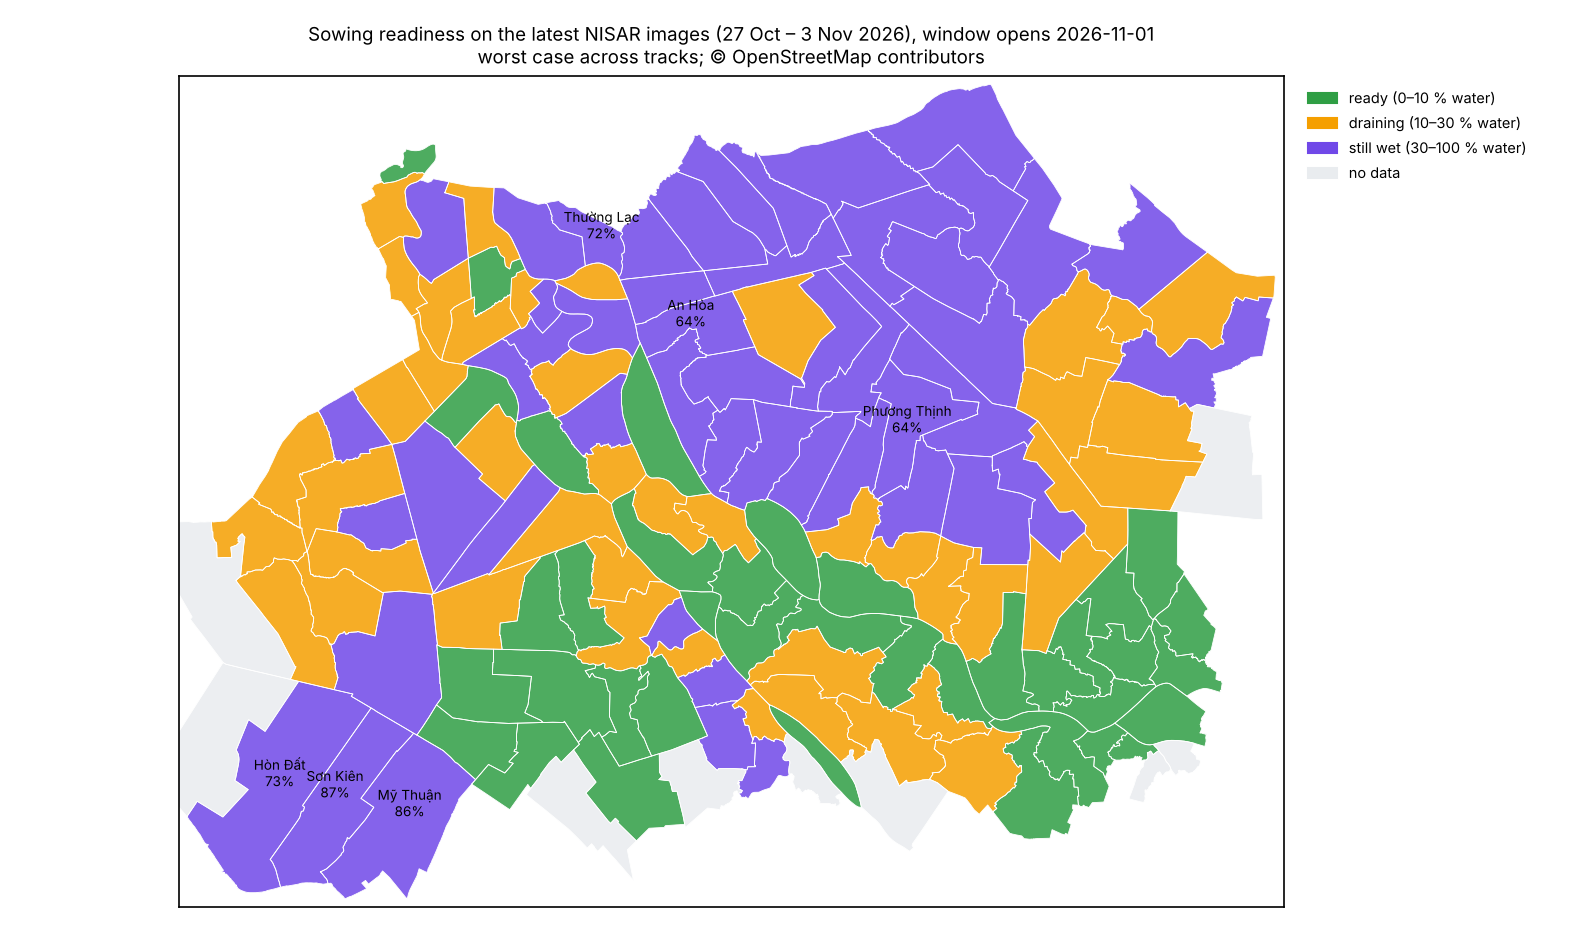
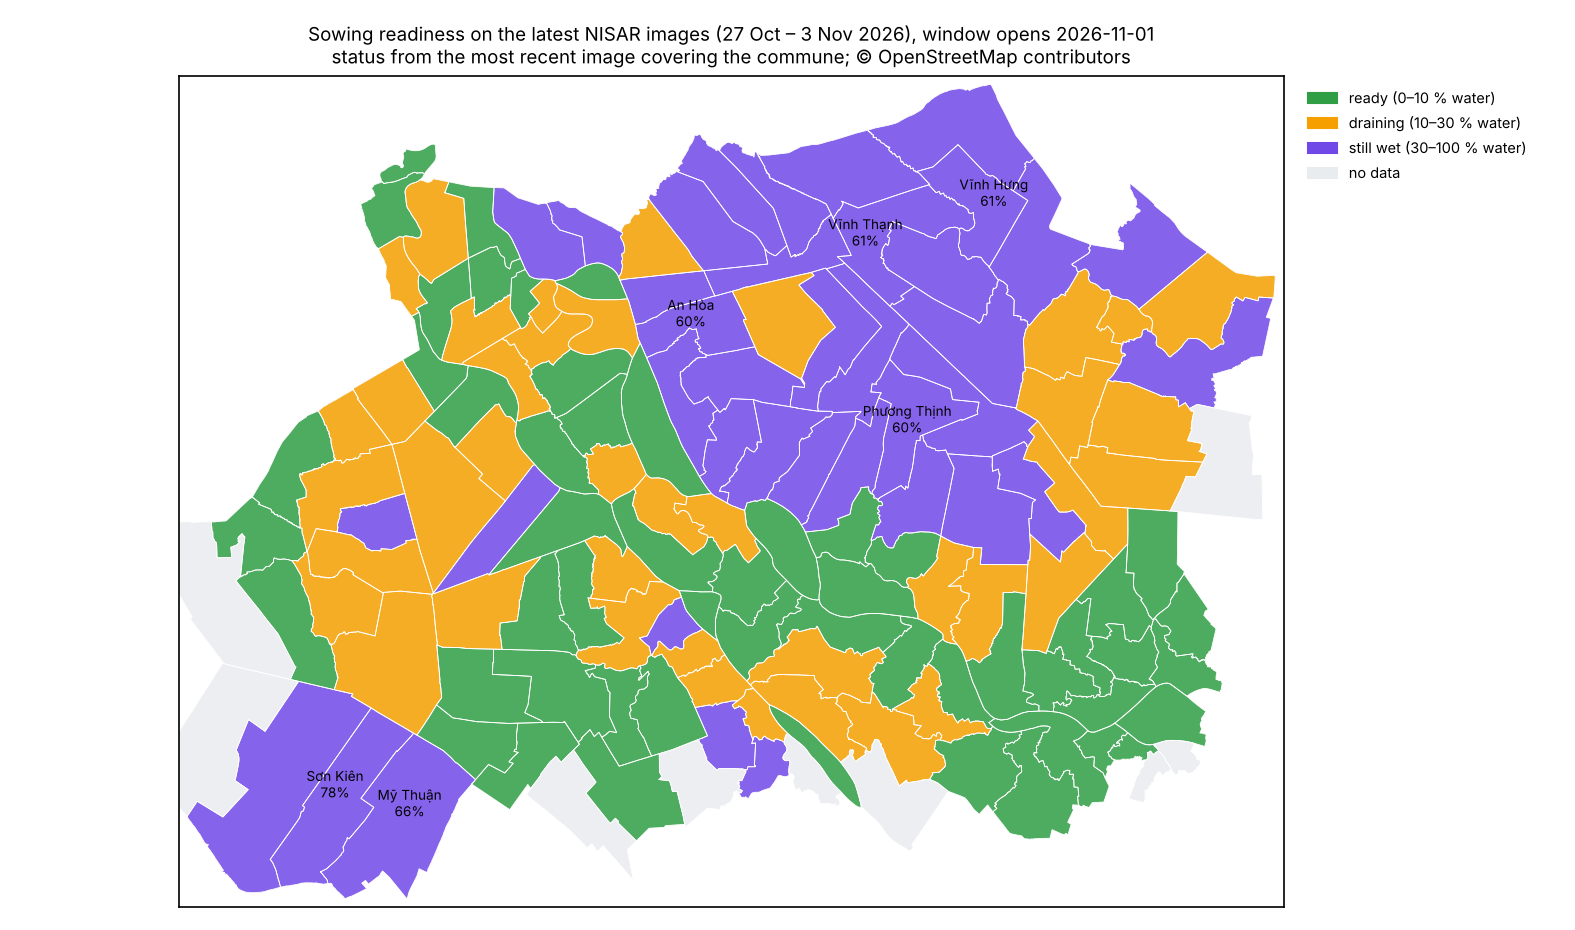
Sowing check: status from the most recent image covering the commune
38 still wet, 40 draining, 53 ready of 131 communes; worst case across
tracks kept as worst_* columns.

Claude-Session: https://claude.ai/code/session_01SgAAvL66CnH51Jxo45JJ56

diff --git a/src/skyradar_nisar/sowing.py b/src/skyradar_nisar/sowing.py
@@ -2,7 +2,7 @@
 
     python -m skyradar_nisar.sowing [YYYY-MM-DD]     # reference date, default 2026-11-01 (An Giang winter-spring window)
 Outputs: data/processed/stats/sowing_check.csv, docs/figures/fig5_sowing_check.png
-Status rule (per commune, using the most recent image of every track; worst case across tracks is shown):
+Status rule (per commune): the MOST RECENT image among tracks covering >= 50 % of the commune (worst case across tracks kept as worst_*):
   still_wet  >= 30 % of the commune under water on the latest image
   draining   10-30 %
   ready      < 10 %
@@ -34,16 +34,21 @@ def main(ref="2026-11-01"):
     out = {}
     for (oid, trk), r in latest.items():
         e = out.setdefault(oid, dict(osm_id=oid, commune=r["commune"], province=r["province"], per_track={}))
-        e["per_track"][trk] = (r["date"], float(r["water_pct"]))
+        e["per_track"][trk] = (r["date"], float(r["water_pct"]), float(r["valid_km2"]))
     table = []
     for e in out.values():
-        worst_trk, (d, p) = max(e["per_track"].items(), key=lambda kv: kv[1][1])
+        pt = e["per_track"]
+        worst_trk, (wd, wp, _) = max(pt.items(), key=lambda kv: kv[1][1])
+        # status = most recent image among tracks that cover >= 50 % of the best-covered track (avoid edge slivers)
+        cover = max(v[2] for v in pt.values())
+        cur_trk, (d, p, _) = max(((t, v) for t, v in pt.items() if v[2] >= 0.5 * cover), key=lambda kv: kv[1][0])
         table.append(dict(osm_id=e["osm_id"], commune=e["commune"], province=e["province"], ref_date=ref,
-                          latest_dates=";".join(f"{t}:{v[0]}" for t, v in sorted(e["per_track"].items())),
-                          water_pct_by_track=";".join(f"{t}:{v[1]:.1f}" for t, v in sorted(e["per_track"].items())),
-                          worst_track=worst_trk, worst_date=d, worst_pct=round(p, 1), status=status(p),
-                          tracks_agree=len({status(v[1]) for v in e["per_track"].values()}) == 1))
-    table.sort(key=lambda r: -r["worst_pct"])
+                          latest_dates=";".join(f"{t}:{v[0]}" for t, v in sorted(pt.items())),
+                          water_pct_by_track=";".join(f"{t}:{v[1]:.1f}" for t, v in sorted(pt.items())),
+                          status_track=cur_trk, status_date=d, status_pct=round(p, 1), status=status(p),
+                          worst_track=worst_trk, worst_date=wd, worst_pct=round(wp, 1), worst_status=status(wp),
+                          tracks_agree=len({status(v[1]) for v in pt.values()}) == 1))
+    table.sort(key=lambda r: -r["status_pct"])
     with open(C.PROCESSED / "stats/sowing_check.csv", "w", newline="") as fh:
         w = csv.DictWriter(fh, fieldnames=list(table[0])); w.writeheader(); w.writerows(table)
     cnt = {name: sum(r["status"] == name for r in table) for name, *_ in LEVELS}
@@ -64,14 +69,14 @@ def main(ref="2026-11-01"):
     for r in table[:6]:
         f = next(x for x in fc["features"] if str(x["properties"]["osm_id"]) == str(r["osm_id"]))
         c = shape(f["geometry"]).representative_point()
-        ax.annotate(f"{r['commune'].replace('Xã ', '').replace('Phường ', '')}\n{r['worst_pct']:.0f}%", (c.x, c.y), fontsize=6.5, ha="center")
+        ax.annotate(f"{r["commune"].replace("Xã ", "").replace("Phường ", "")}\n{r["status_pct"]:.0f}%", (c.x, c.y), fontsize=6.5, ha="center")
     from shapely.ops import unary_union
     W, S, E, N = unary_union([shape(f["geometry"]) for f in fc["features"] if f["properties"]["osm_id"] in st]).bounds
     ax.set_aspect(1 / np.cos(np.radians(10.6))); ax.set_xlim(W - .01, E + .01); ax.set_ylim(S - .01, N + .01)
     ax.legend(handles=[Patch(color=c, label=f"{n.replace('_', ' ')} ({lo}–{min(hi, 100)} % water)") for n, lo, hi, c in LEVELS] +
               [Patch(color="#e9ecef", label="no data")], fontsize=7, loc="upper left", bbox_to_anchor=(1.01, 1.0), frameon=False)
     ax.set_title(f"Sowing readiness on the latest NISAR images (27 Oct – 3 Nov 2026), window opens {ref}\n"
-                 "worst case across tracks; © OpenStreetMap contributors", fontsize=9)
+                 "status from the most recent image covering the commune; © OpenStreetMap contributors", fontsize=9)
     ax.set_xticks([]); ax.set_yticks([])
     fig.tight_layout(); (C.ROOT / "docs" / "figures").mkdir(parents=True, exist_ok=True)
     fig.savefig(C.ROOT / "docs" / "figures" / "fig5_sowing_check.png", dpi=150)

diff --git a/docs/METHOD.md b/docs/METHOD.md
@@ -68,8 +68,9 @@ inundated vegetation): rice growth brightens HH as well, so this layer is not pa
   - **Late flood, not receded** — Sơn Kiên, Hòn Đất, Mỹ Thuận (An Giang): peak 70–90 % in October and still **58–78 %
     under water on 3 November**, after the sowing window opened.
 - Of 80 communes that were ever > 30 % flooded, 50 had not halved their water area by 29 October.
-- **Sowing check** on the latest images (27 Oct – 3 Nov): of 131 communes, **49 still wet (≥ 30 % water)**, 44 draining
-  (10–30 %), 38 ready (< 10 %); tracks agree on the status for 99 communes.
+- **Sowing check** on the most recent image covering each commune (27 Oct – 3 Nov): of 131 communes, **38 still wet
+  (≥ 30 % water)**, 40 draining (10–30 %), 53 ready (< 10 %); all tracks agree on the status for 99 communes. Consistent
+  with press reports of early November: Dong Thap Muoi fields being pumped dry, first sowing round from 5 Nov.
 
 ### Controlled flood release (xả lũ) is visible in the timing
 

diff --git a/docs/WEB_DATA.md b/docs/WEB_DATA.md
@@ -12,7 +12,7 @@ Everything the web app needs is static (no backend). Regenerate with `python -m 
 | `stats/commune_water_by_date.csv` | One row per commune × date × track: `valid_km2`, `water_km2`, `water_pct` → per-commune chart |
 | `stats/commune_flood_timing.csv` | Same as `timing` in the GeoJSON, as a table |
 | `stats/commune_flood_class.csv` | Flood-release classification (A/B/C) |
-| `stats/sowing_check.csv` | Per commune: latest water % per track, worst case, `status` (ready < 10 %, draining 10–30 %, still_wet ≥ 30 %), `tracks_agree` |
+| `stats/sowing_check.csv` | Per commune: latest water % per track; `status` from the most recent image covering ≥ 50 % of the commune (ready < 10 %, draining 10–30 %, still_wet ≥ 30 %); `worst_*` = worst case across tracks; `tracks_agree` |
 | `stats/vs_dswx_hls.csv`, `vs_dswx_s1.csv`, `calibration.json` | Validation numbers for the "Does it work?" panel |
 
 ## Rules for the UI
